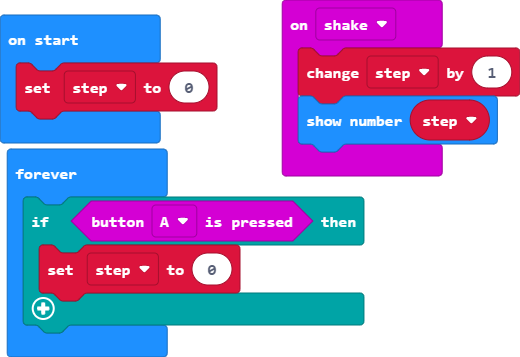
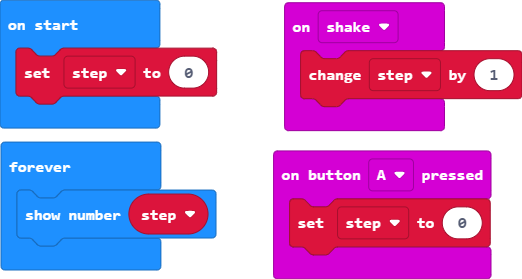
Update main.blocks, main.ts

diff --git a/main.ts b/main.ts
@@ -1,11 +1,11 @@
+input.onButtonPressed(Button.A, function () {
+    step = 0
+})
 input.onGesture(Gesture.Shake, function () {
     step += 1
-    basic.showNumber(step)
 })
 let step = 0
 step = 0
 basic.forever(function () {
-    if (input.buttonIsPressed(Button.A)) {
-        step = 0
-    }
+    basic.showNumber(step)
 })
